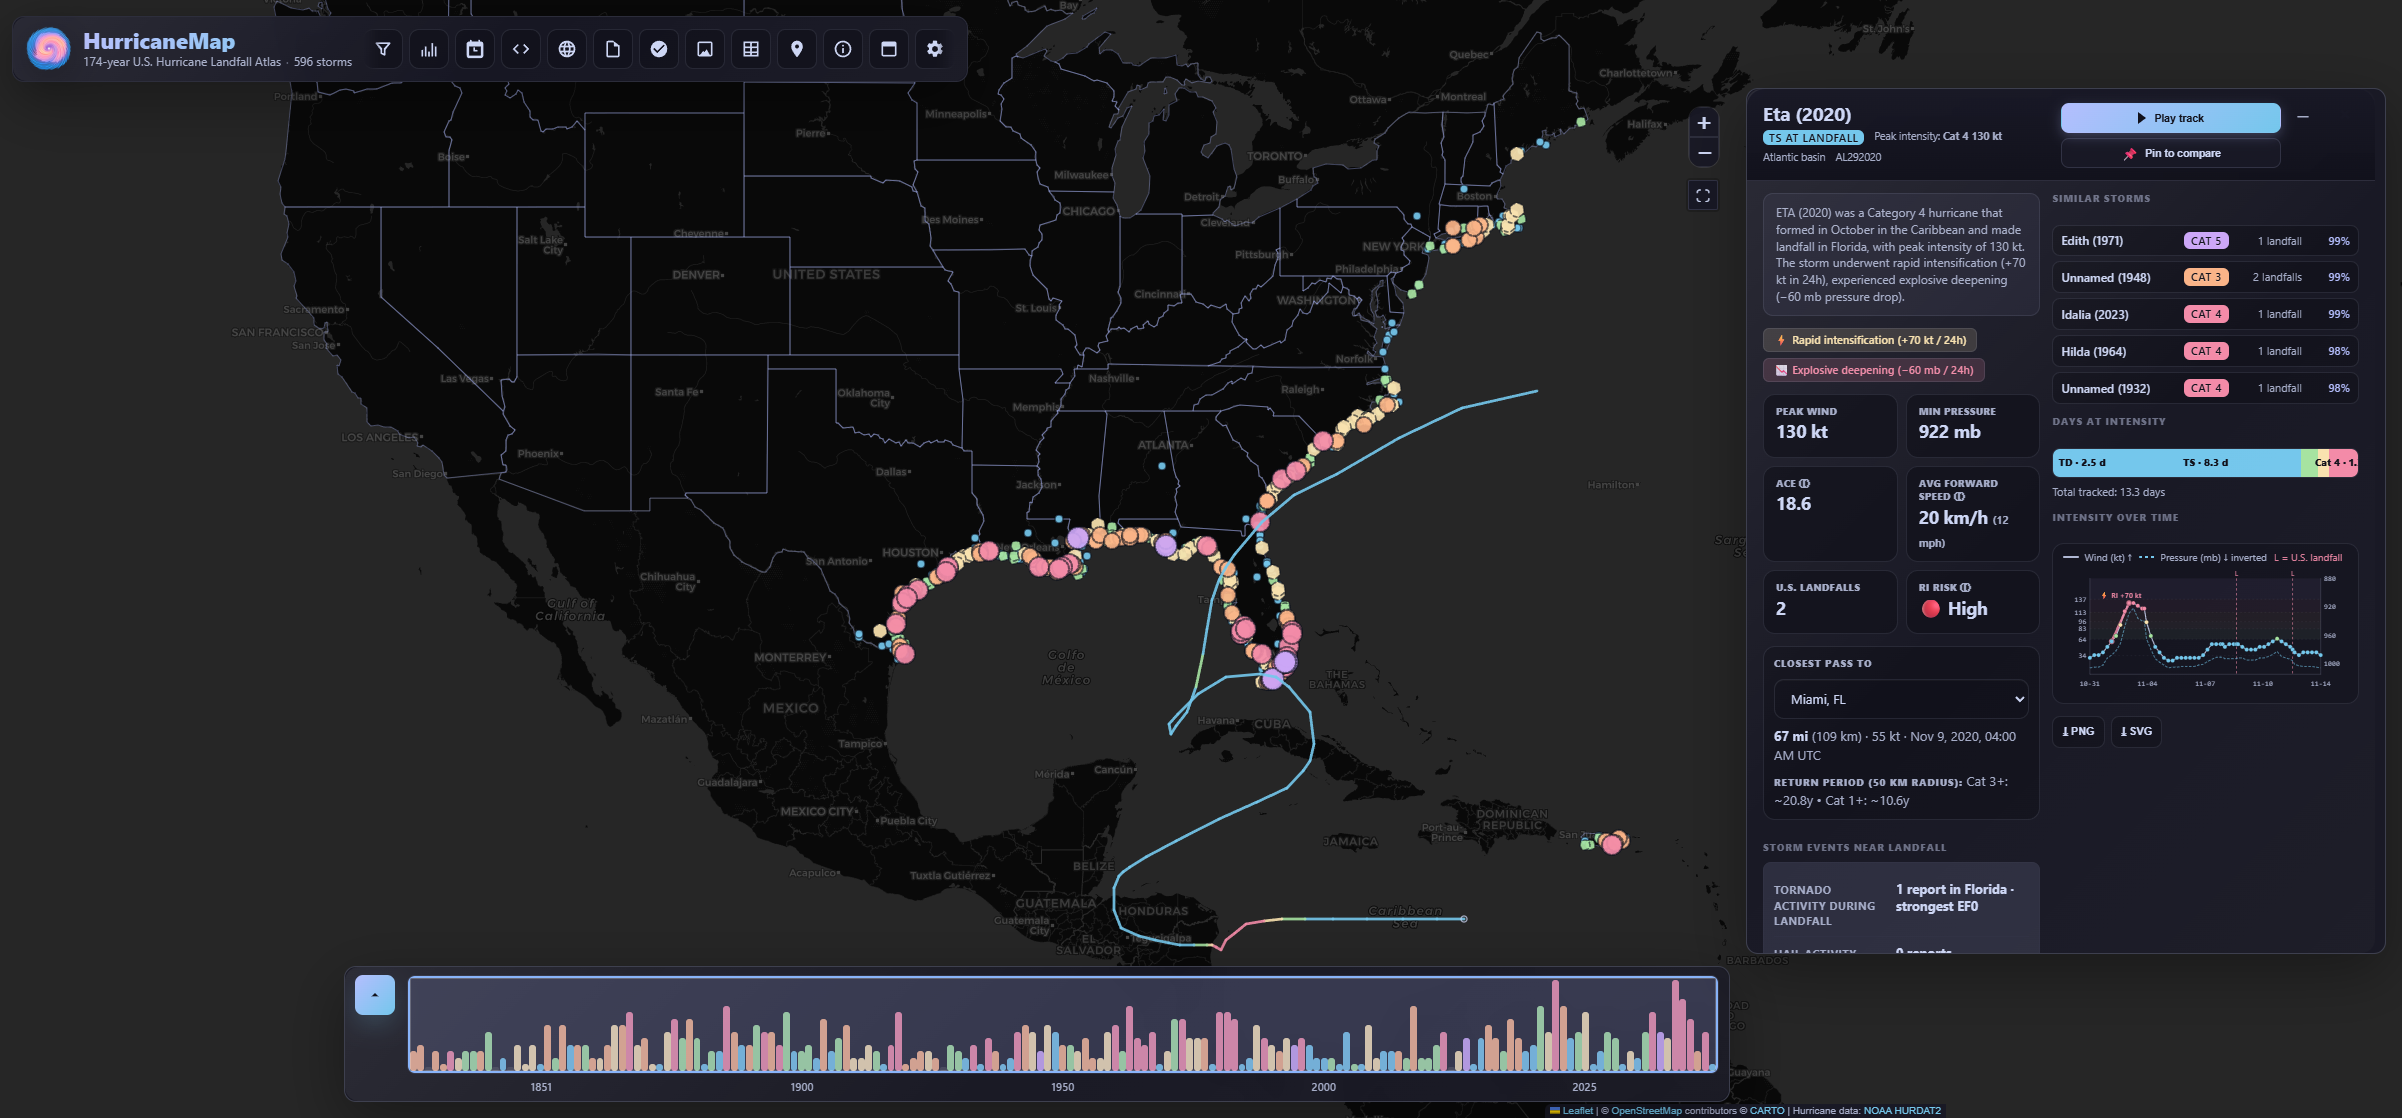
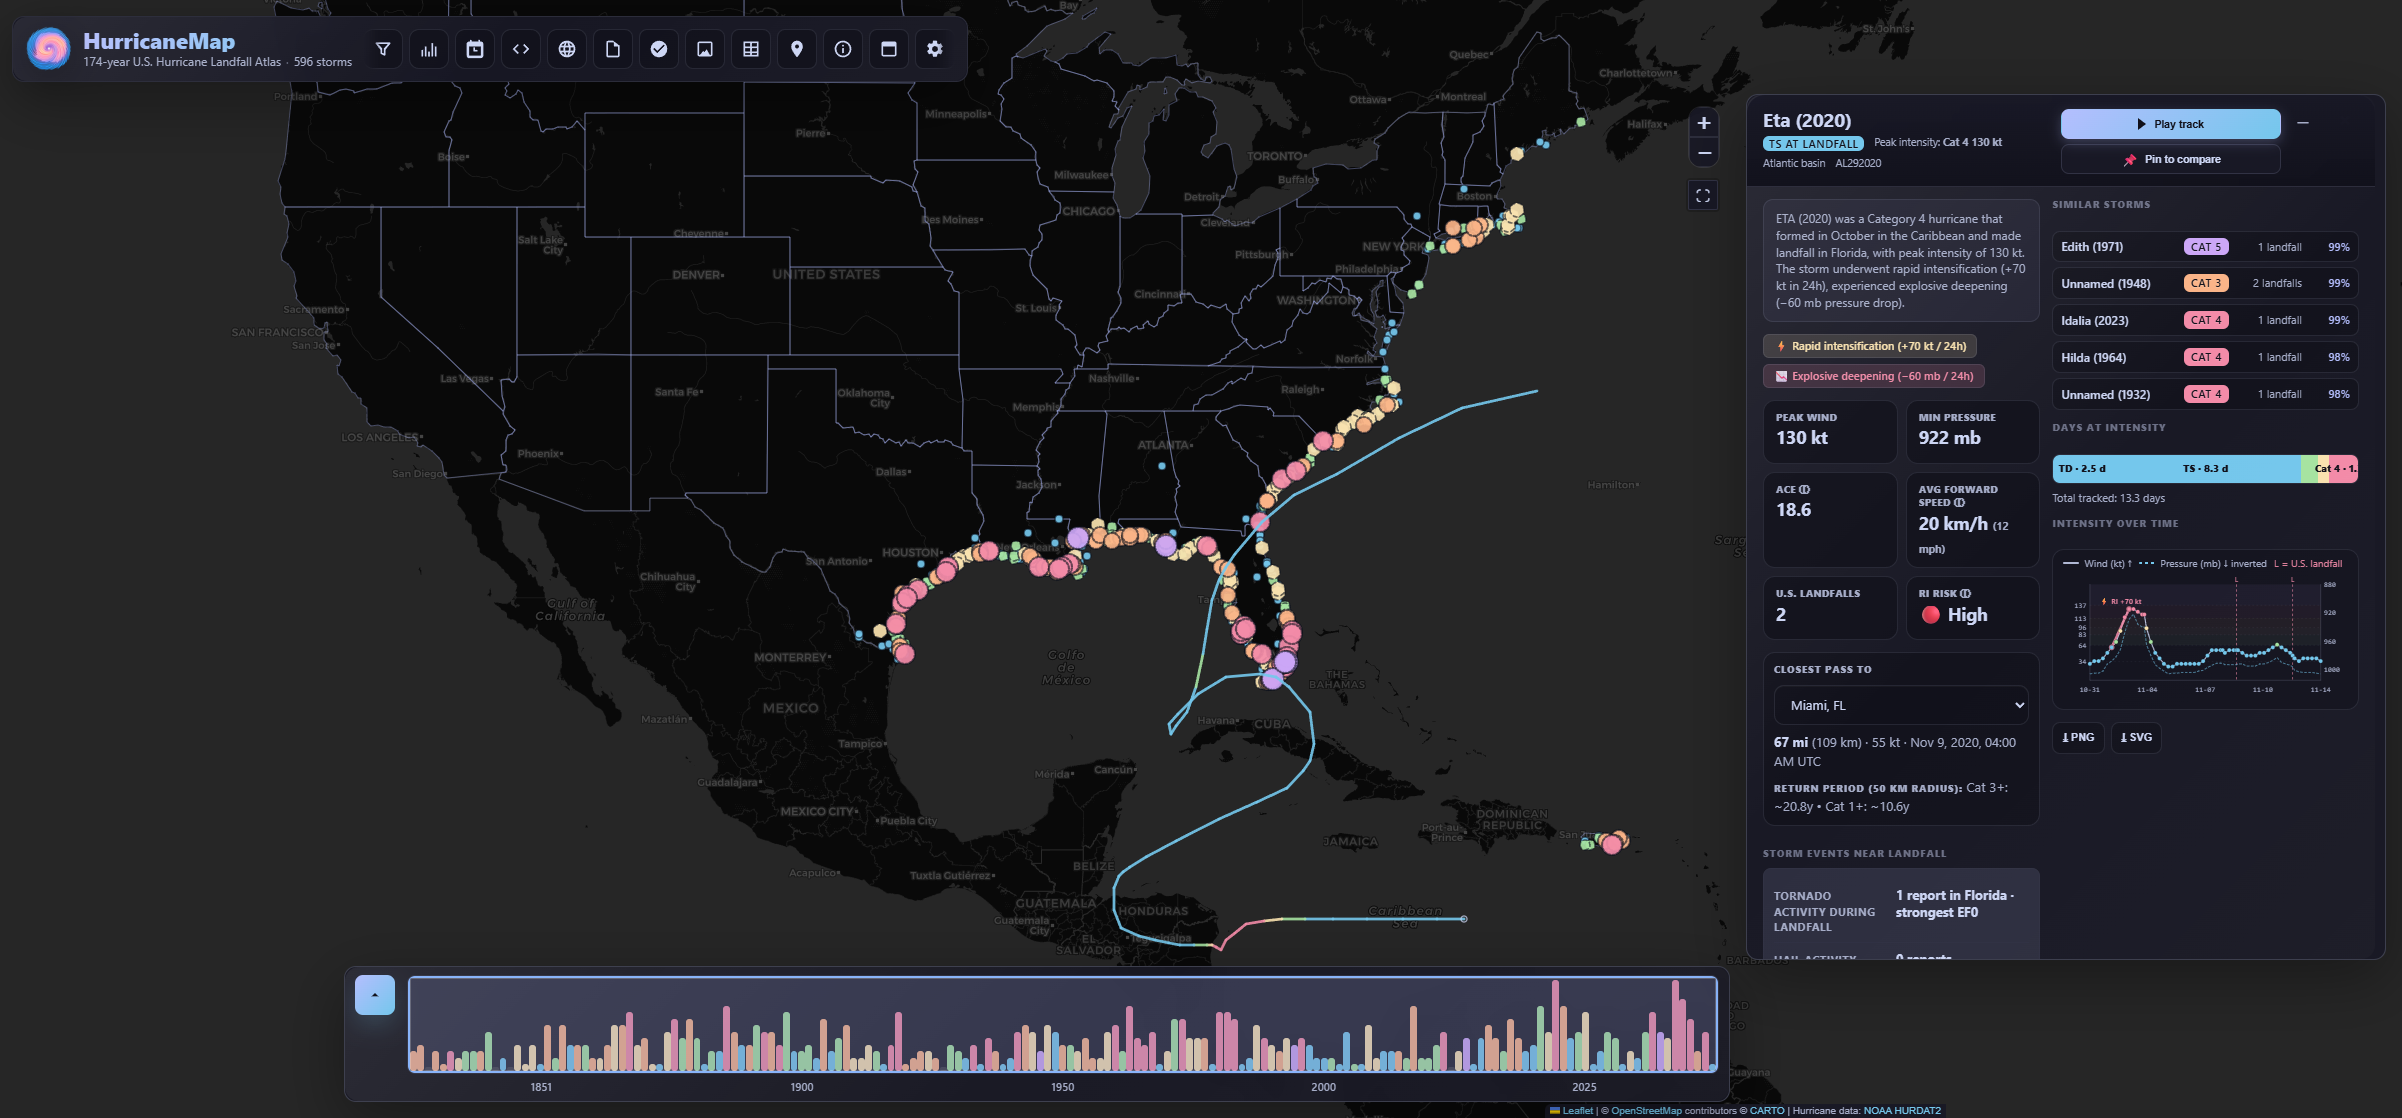
release: v1.4.6

diff --git a/sw.js b/sw.js
@@ -12,7 +12,7 @@
 //
 // Bump SW_VERSION on every release to flush the static shell.
 
-const SW_VERSION = 'hm-v1.4.5';
+const SW_VERSION = 'hm-v1.4.6';
 const SHELL_CACHE = `hm-shell-${SW_VERSION}`;
 const DATA_CACHE = 'hm-data-v2';
 const TILE_CACHE = 'hm-tiles-v1';

diff --git a/README.md b/README.md
@@ -1,7 +1,7 @@
 # HurricaneMap
 
 [![Live demo](https://img.shields.io/badge/live%20demo-sysadmindoc.github.io%2FHurricaneMap-cba6f7.svg)](https://sysadmindoc.github.io/HurricaneMap/)
-[![Version](https://img.shields.io/badge/version-1.4.5-blue.svg)](https://github.com/SysAdminDoc/HurricaneMap/releases)
+[![Version](https://img.shields.io/badge/version-1.4.6-blue.svg)](https://github.com/SysAdminDoc/HurricaneMap/releases)
 [![License](https://img.shields.io/badge/license-MIT-green.svg)](LICENSE)
 [![Platform](https://img.shields.io/badge/platform-web-lightgrey.svg)](#)
 [![Data](https://img.shields.io/badge/data-NOAA%20HURDAT2-orange.svg)](https://www.nhc.noaa.gov/data/)
@@ -62,6 +62,12 @@ npm run build
 - **🚨 Active storm tracking** — when NHC reports active storms, a pulsing badge appears at the top with cone-of-uncertainty + advisory tracks rendered on the map, an optional live GOES satellite backdrop, hourly active-season feed checks, retry/backoff status, and quicklinks to spaghetti-model viewers (Tropical Tidbits, Track The Tropics).
 - **👥 Population density** — toggle the SEDAC GPWv4 1km gridded-population overlay to see how many people live in each storm's path / surge zone.
 - Search by name OR year. Filter by year range, Saffir-Simpson category, or state.
+
+## What's new in v1.4.6 - Desktop panel fit (July 2026)
+
+- **Right panel uses the shelf space.** The desktop details panel now sits lower and leaves only a 6px gutter above the season/timeline shelf.
+- **Less dead space.** The panel top and bottom are tuned together so the right column feels deliberately seated in the available map lane.
+- **Regression coverage.** Smoke tests now fail if the right panel leaves too much empty space above the bottom shelf.
 
 ## What's new in v1.4.5 - Desktop shelf alignment (July 2026)
 

diff --git a/CHANGELOG.md b/CHANGELOG.md
@@ -2,6 +2,11 @@
 
 All notable changes to HurricaneMap.
 
+## v1.4.6 - Desktop panel fit (July 2026)
+
+- Lowered the desktop analytical panel lane and tightened the shelf gutter from 12px to 6px so the right panel uses the available space above the season/timeline shelf.
+- Added smoke coverage that asserts side panels leave a compact 4-8px gutter above the bottom shelf instead of floating too high.
+
 ## v1.4.5 - Desktop shelf alignment (July 2026)
 
 - Moved the season summary into the desktop bottom shelf, positioned to the left of the timeline with matching height, baseline, radius, and surface treatment.
